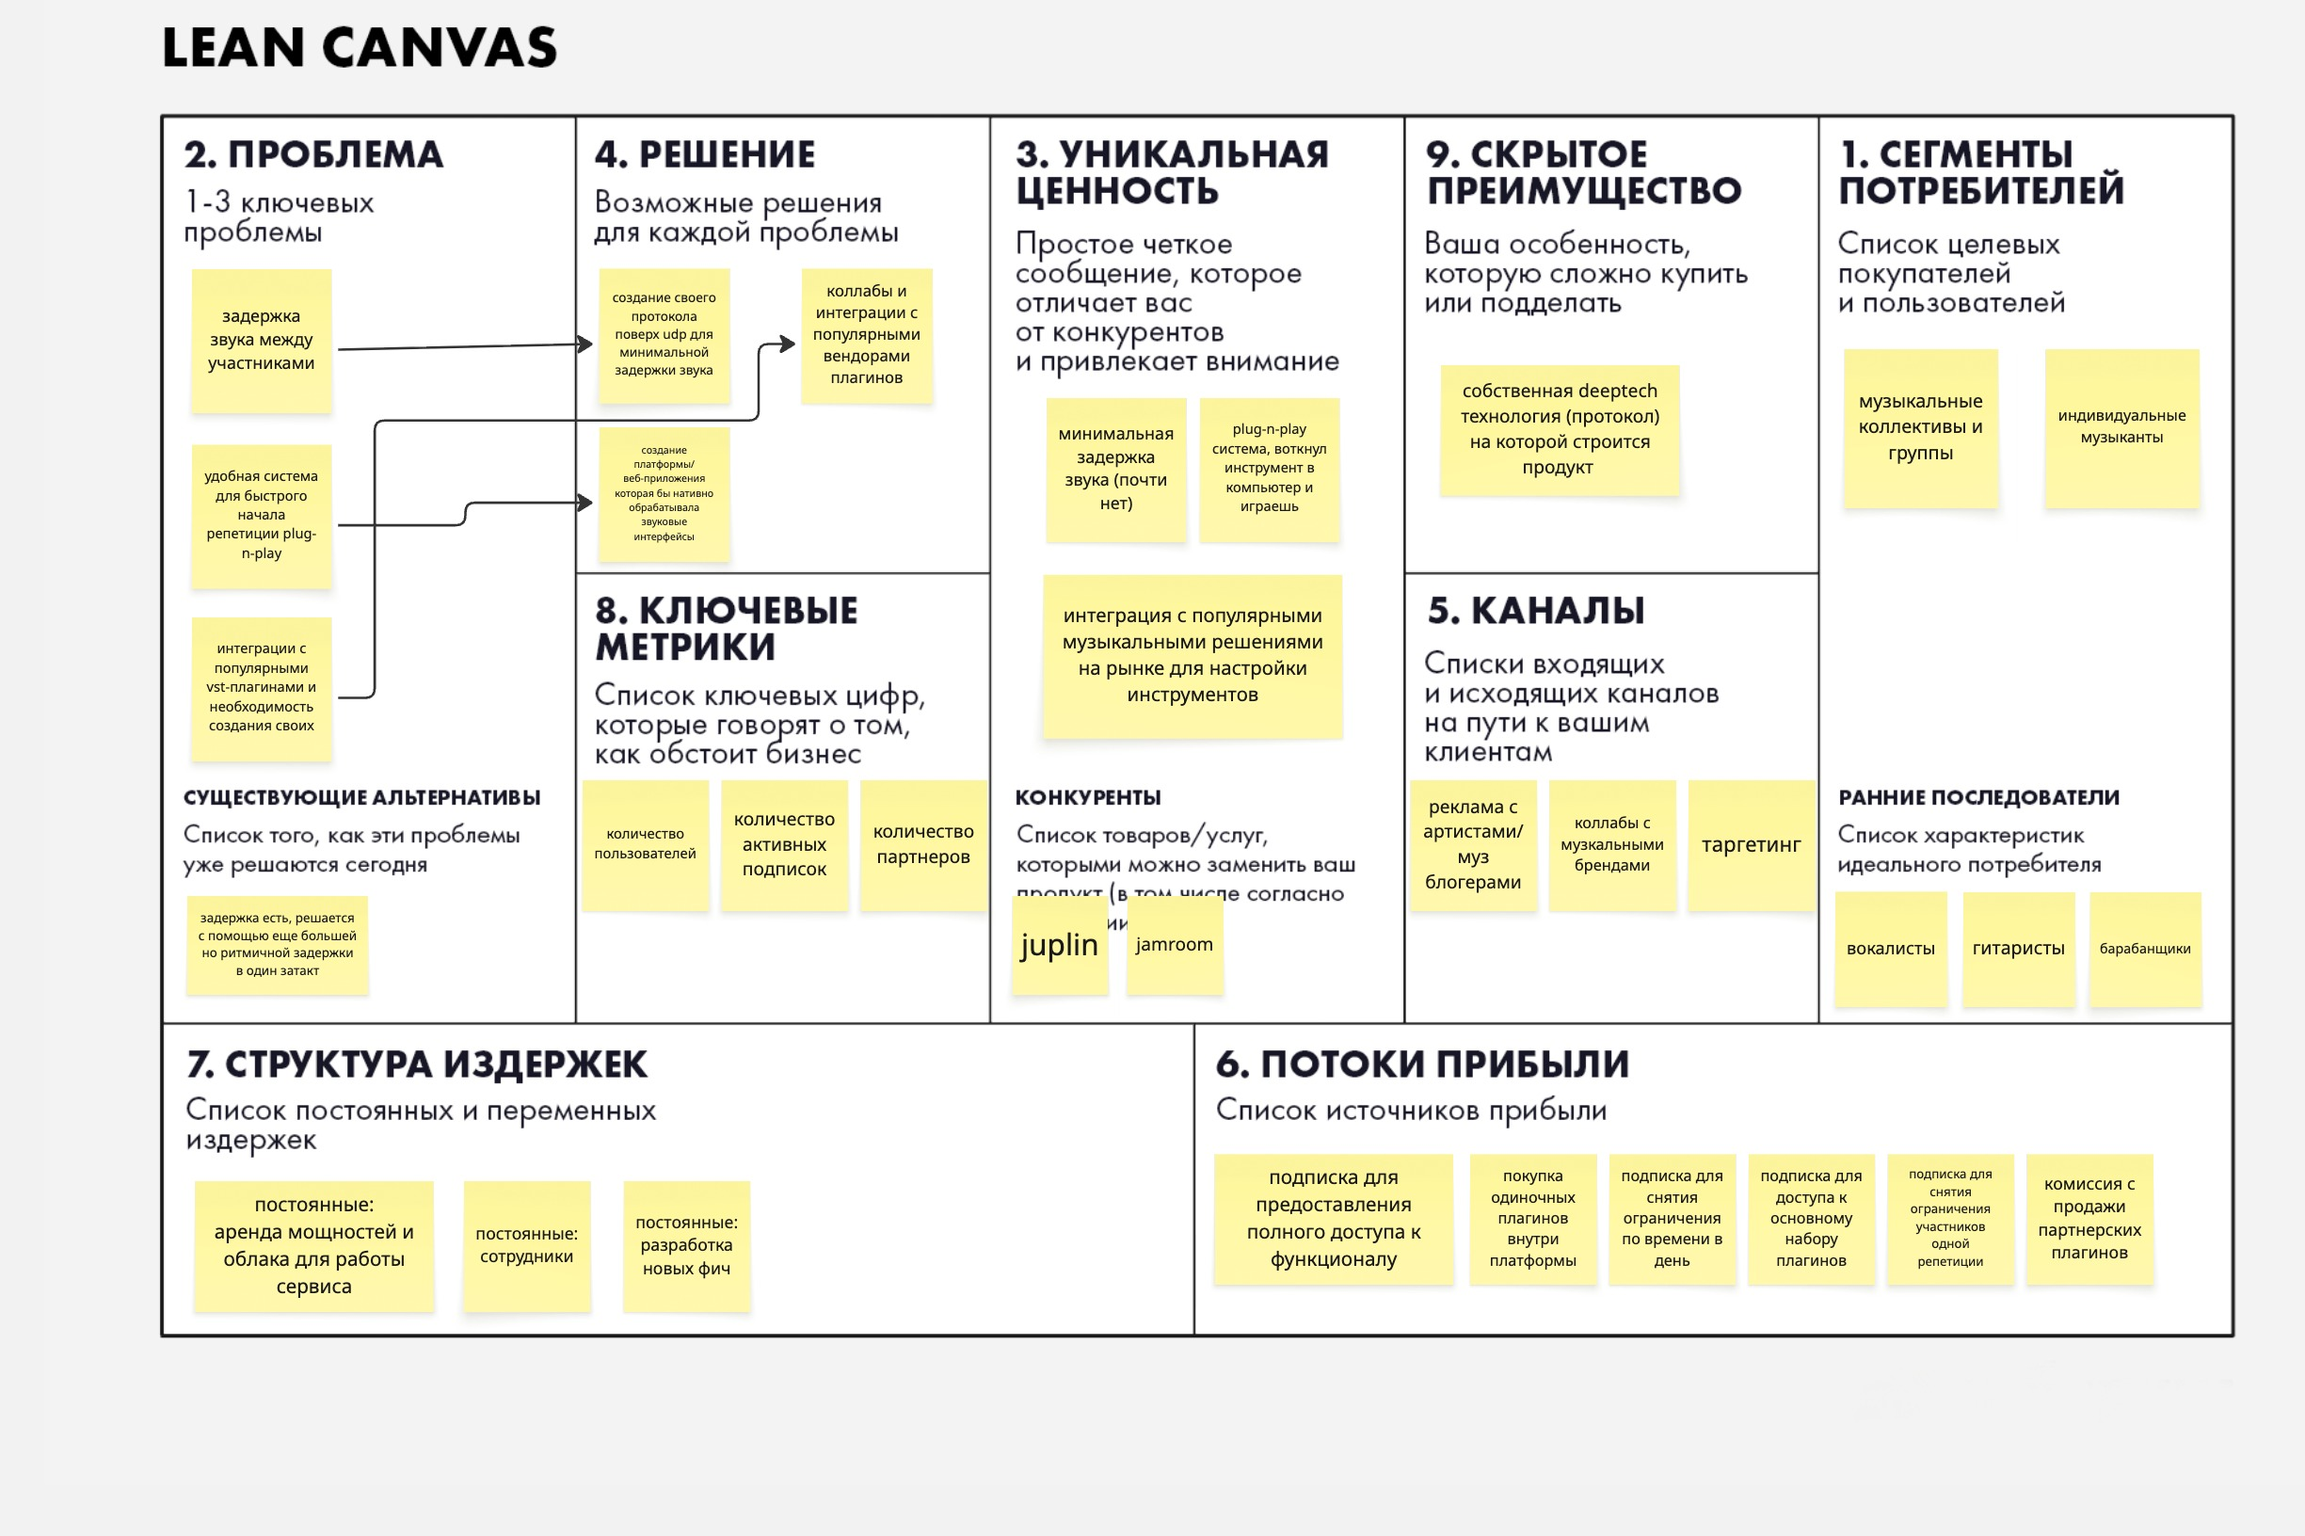
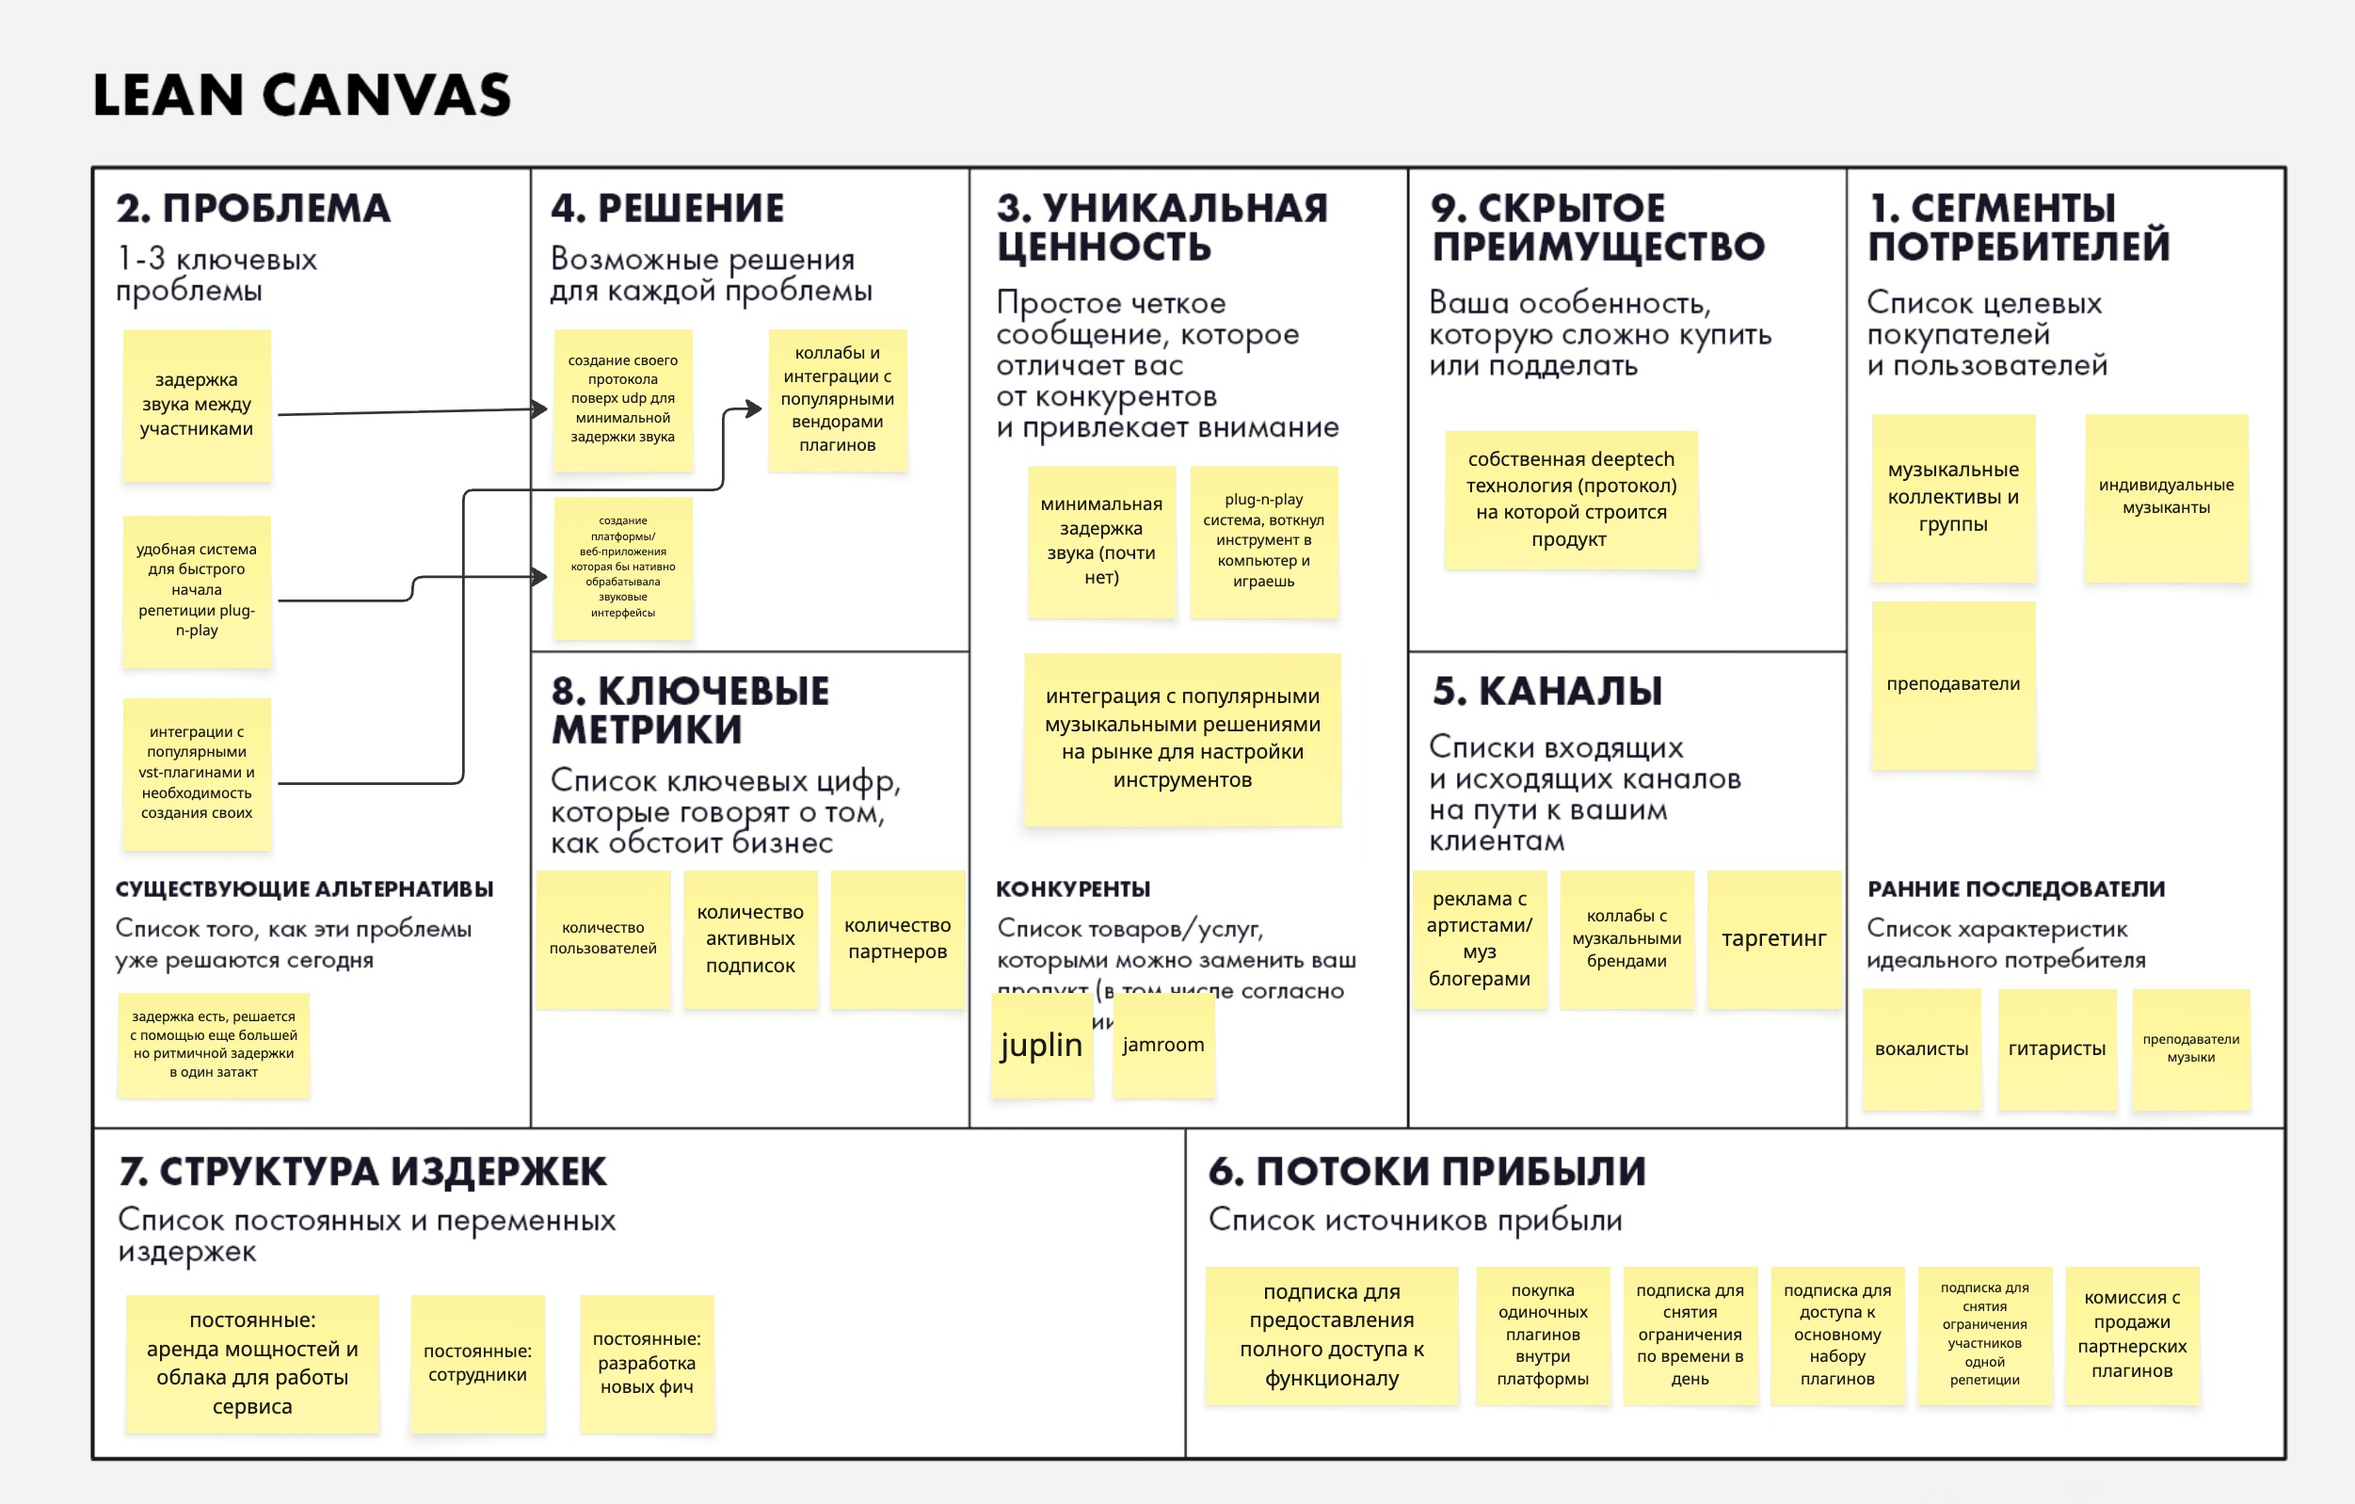
feat: новая часть дз, фикс прошлого, улучшение

diff --git a/README.md b/README.md
@@ -2,8 +2,87 @@
 VK Education | Методы разработки ПО
 
 ## 1. Elevator Pitch
-Каждый музыкальный коллектив или проект сталкивается с тем, что трудно выделять время на репетицию: дорога до точки, настройка оборудования на точке, подготовка к репетиции. Мы разрабатываем deeptech технологию которая оборачивается в продукт для онлайн репетиций. В отличии от конкурентов мы делаем настолько минимальную задержку, что она не чувствуется слухом, а также делаем интеграцию с музыкальным ПО. В результате музыканты не тратят время на рутину, а вендоры музыкального ПО могут встраивать его прямо в наш сервис. Сейчас мы ищем инвестиции - хотите посмотреть MVP?
+Каждый музыкальный коллектив или проект теряет невероятное количество времени на рутину: сбор оборудования, дорога до точки, подготовка инструментов к репетиции, а преподаватели в сфере музыки вынуждены использовать онлайн звонки в которых невероятно плохой звук и большая задержка. Мы делаем сервис который предоставляет возможность проводить репетиции и уроки онлайн на базе собственной deep-tech технологии. В отличии от конкурентов мы делаем настолько минимальную задержку, что она не воспринимается на слух, а также предоставляем интеграции с музыкальным ПО. В результате музыканты не тратят время на рутину, преподаватели и ученики получают более качественный опыт, а вендоры музыкального ПО могут встраивать его прямо в наш сервис. Сейчас мы ищем инвестиции - хотите посмотреть MVP?
 
 ## 2. Lean Canvas
 ![Perform Lean Canvas](/img/leancanvas.jpg)
 
+## 3. Гипотезы по рискам
+
+### 1. Риск ценности 
+Купят ли продукт, не предпочтут ли живую репетицию/занятие?
+
+H (Hypotesis) - мы считаем, что пользователю будет удобнее заниматься онлайн, в том числе для учебного процесса - проводить уроки онлайн будет удобнее.
+A (Action) -
+1. фейк лендинг с видео демонстрацией инструментария приложенияс листом ожидания/метриками реакции,
+2. посевы по соц сетям с короткими видео с демонстрацией (например тикток),
+3. посевы по тематическим группам с мониторингом реакции.
+
+D (Data) - результат/фидбек, метрики, реакции ЦА
+I (Insights) - смотрим на фидбек/метрики, реакции в соц сетях (20% реакций положительных от просмотров на коротких видео), смотрим на лист ожидания (100 пользователей в листе ожидания). Если достигнуты необходимые значения, то идея жизнеспособна.
+
+### 2. Риск осуществимости
+Сможем ли на низком уровне снизить задержку?
+
+H (Hypotesis) - Если мы реализуем кастомный легковесный протокол поверх UDP на Rust, то сможем удерживать задержку ниже 10 мс в условиях локальной сети / стабильного канала, потому что исключим блокировку потока при потере пакетов и снизим накладные расходы на сериализацию.
+A (Action) -
+1. соберем проткол на базе UDP с помощью Rust, 
+2. соберем тестовый стенд для замера скорости, с учетом помех сети(потеря пакетов),
+3. проведем замер скорости по нашей технологии по сравнению с обычным udp.
+
+D (Data) - результат замера, разница с UDP.
+I (Insights) - смотрим итоговую задержку на тестовом стенде, если latency держится ниже 10мс, то идея жизнеспособна.
+
+## 4. Расчет сходимости экономики
+
+### Расчет CAC
+
+Затраты на привлечение:
+1. Реклама в яндекс директ/гугл адс (1$) - конверсия 3% купят подписку
+2. Маркетолог (зп маркетолога = 1000$) - приводит 40 клиентов в месяц
+
+300 кликов(300$): 300 * 0.03 = 9 клиентов
+40 клиентов от маркетолога 1000$
+
+CAC = 1300 / 49 = 26.5 $
+
+### Расчет LTV
+
+Подписка стоит 10$ в месяц
+
+Мы получим с продажи одного плагина 10$
+
+Сколько один человек будет в продукте:
+Пусть в среднем пользователь будет пользоваться 10 месяцев
+Пусть в среднем пользователь купит 2 плагина.
+
+Грязный LTV = 10 * 10 + 20 = 120$
+
+Считаем затраты:
+Комиссия платежки: 3.5% * 120 = 4.2$
+
+Затраты на инфру: 3 * 10 = 30$
+
+Итог: 34$
+
+Считаем Net LTV:
+LTV = 120 - 34 = 86$
+
+### Сходимость 
+
+LTV : CAC
+
+86 / 26.5 = 3.2
+
+3.2 - хорошее значение
+
+## 5. Pivot
+
+Zoom-out pivot - делаем продукт частью большого продукта. Прикручиваем к системе репетиций, возможность давать концерты музыкантам, как платные, так и бесплатные.
+
+### 1. Elevator Pitch
+
+Каждый музыкальный коллектив или проект теряет невероятное количество времени на рутину: сбор оборудования, дорога до точки, подготовка инструментов к концерту/репетиции, а преподаватели в сфере музыки вынуждены использовать онлайн звонки в которых невероятно плохой звук и большая задержка. Мы делаем сервис который объединяет весь цикл жизни музыканта, от его обучения, репетиций, до концертов на базе собственной deep-tech технологии. В отличии от конкурентов мы делаем настолько минимальную задержку, что она не чувствуется на слух, а также предоставляем интеграции с музыкальным ПО. В результате музыканты не тратят время на рутину и могут давать концерты на большую аудиторию, преподаватели и ученики получают более качественный опыт, а вендоры музыкального ПО могут встраивать его прямо в наш сервис. Сейчас мы ищем инвестиции - хотите посмотреть MVP?
+
+### 2. Lean Canvas
+![Perform Pivot Lean Canvas](/img/pivotleancanvas.jpg)
